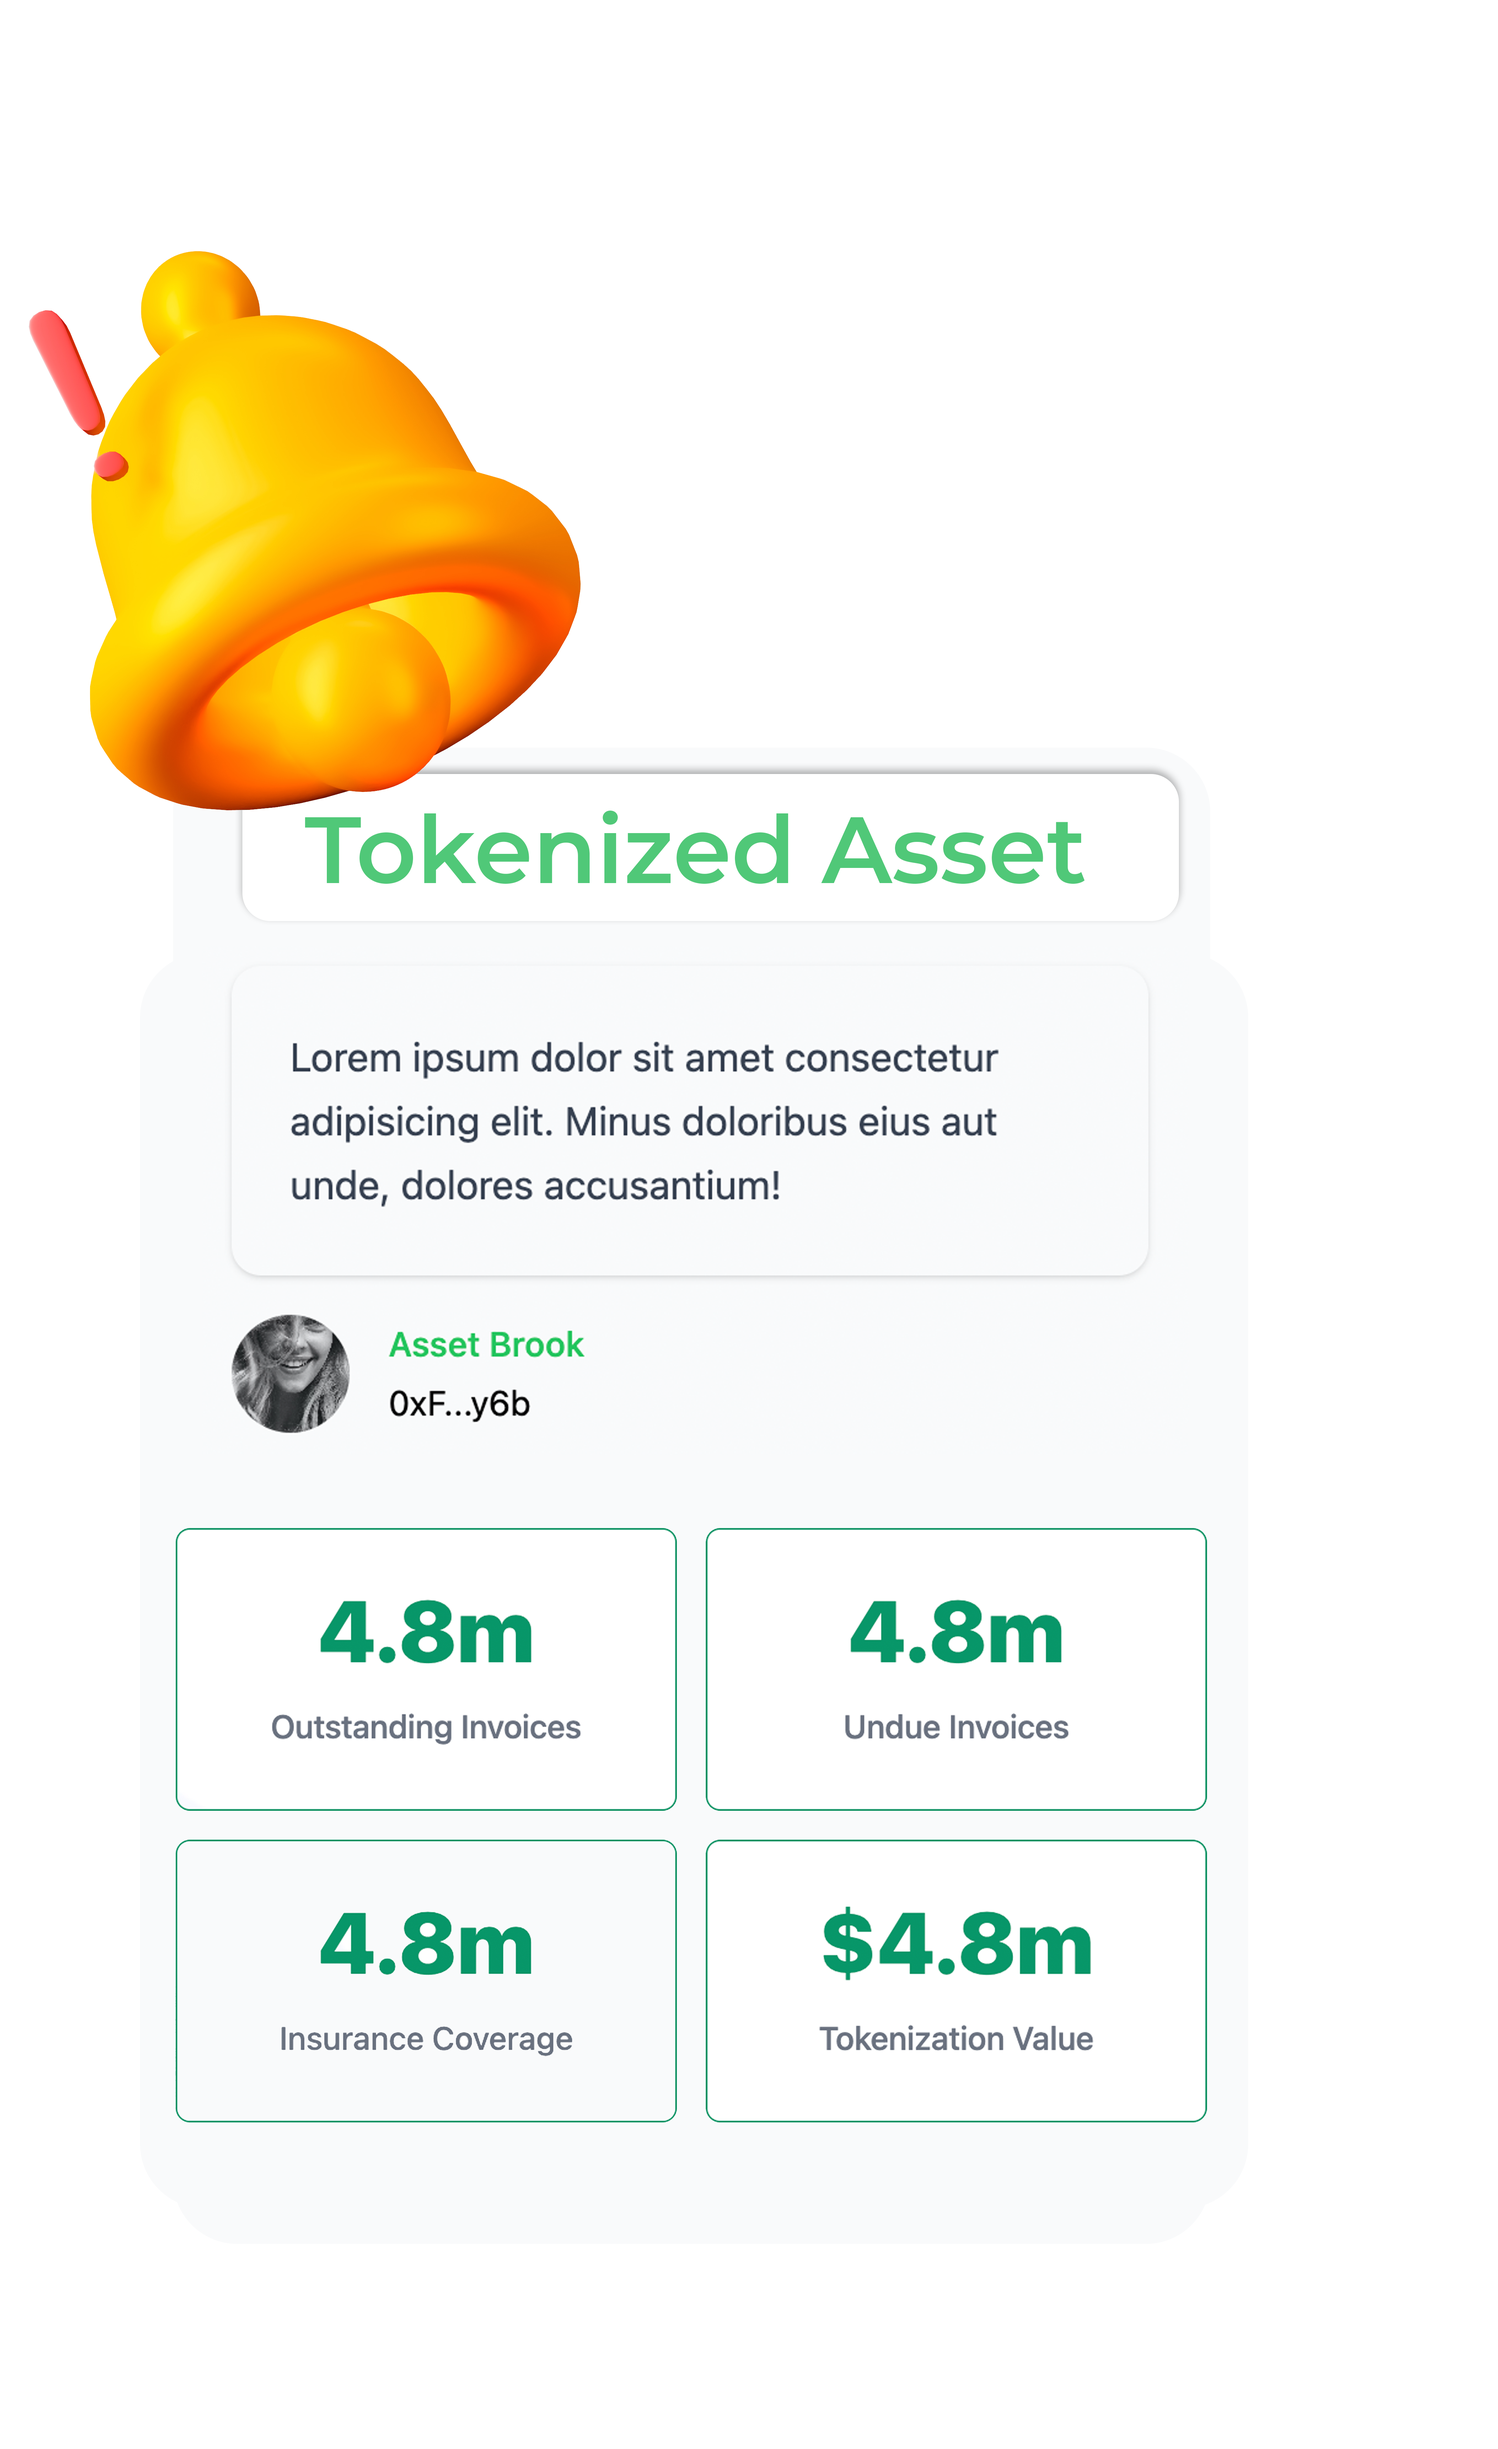
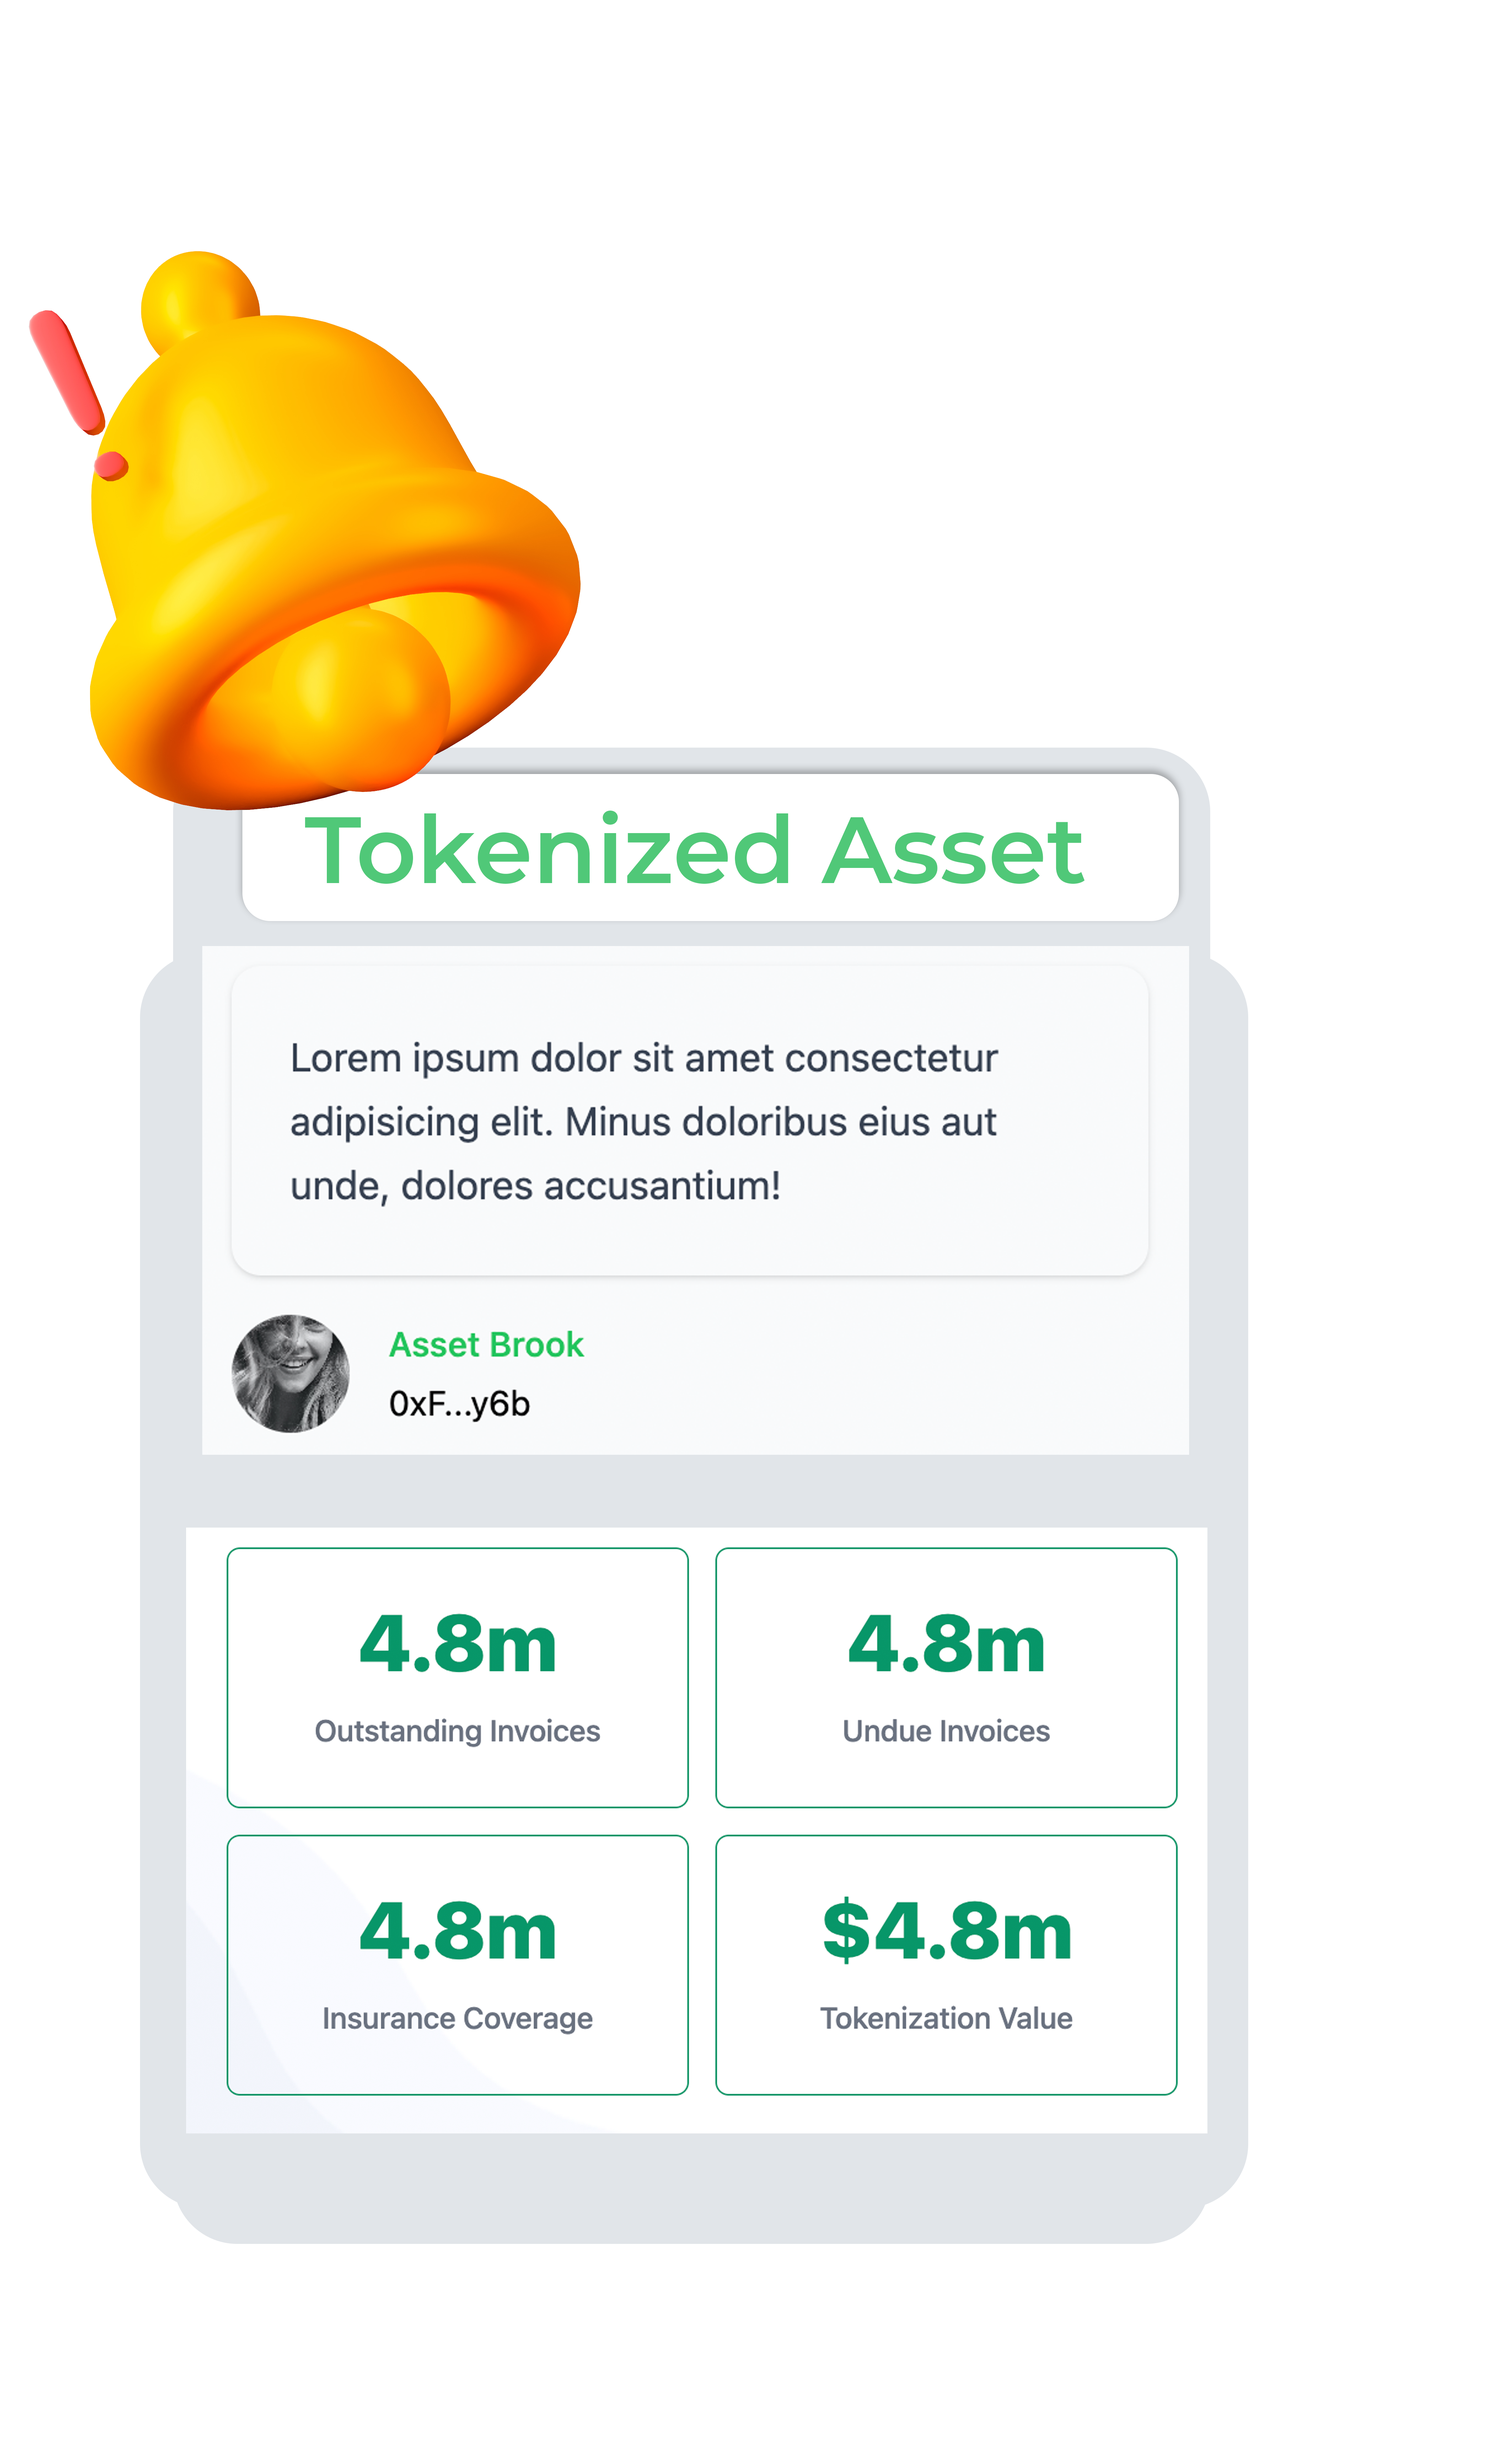
tailwind updates

diff --git a/src/component/Tokenization.js b/src/component/Tokenization.js
@@ -5,6 +5,7 @@ import images2 from '../assets/images2.webp';
 import banner from '../assets/images2.svg';
 
 import assets from '../assets/asssets.png'
+import assets2 from '../assets/asssets2.png'
 
 import '../component/utils/animations.css';
 
@@ -915,32 +916,32 @@ function Tokenization() {
 
 
       <section className="relative bg-gray-50">
-  <div className='flex justify-center lg:pt-16 pt-8'>
-    <h1 className='lg:text-xl text-2xl font-bold text-blue-950'>The platform</h1>
-  </div>
-  <div className='flex justify-center'>
-    <h1 className='lg:text-6xl text-2xl font-bold text-blue-950'>See the full</h1>
-  </div>
-  <div className='flex justify-center'>
-    <h1 className='lg:text-6xl text-2xl font-bold text-emerald-400'>tokenization assets</h1>
-  </div>
+        <div className='flex justify-center lg:pt-16 pt-8'>
+          <h1 className='lg:text-xl text-2xl font-bold text-blue-950'>The platform</h1>
+        </div>
+        <div className='flex justify-center'>
+          <h1 className='lg:text-6xl text-2xl font-bold text-blue-950'>See the full</h1>
+        </div>
+        <div className='flex justify-center'>
+          <h1 className='lg:text-6xl text-2xl font-bold text-emerald-400'>tokenization assets</h1>
+        </div>
 
-  <div className='flex mt-2 justify-center'>
-    <p className="leading-relaxed text-center max-w-3xl px-4 sm:px-12">
-      Lorem, ipsum dolor sit amet consectetur adipisicing elit. Eius ut
-      necessitatibus, repudiandae qui dolor minima.
-      Lorem ipsum dolor sit amet consectetur adipisicing elit. Aut vero 
-      aliquid sint distinctio iure ipsum cupiditate? Quis, odit assumenda? 
-      Deleniti quasi inventore
-    </p>
-  </div>
+        <div className='flex mt-2 justify-center'>
+          <p className="leading-relaxed text-center max-w-3xl px-4 sm:px-12">
+            Lorem, ipsum dolor sit amet consectetur adipisicing elit. Eius ut
+            necessitatibus, repudiandae qui dolor minima.
+            Lorem ipsum dolor sit amet consectetur adipisicing elit. Aut vero 
+            aliquid sint distinctio iure ipsum cupiditate? Quis, odit assumenda? 
+            Deleniti quasi inventore
+          </p>
+        </div>
 
-  <div className="relative flex justify-center">
-    <img className="hidden lg:block w-96 h-88" src={assets} alt="Image 1" />
-    <img className="hidden lg:block w-96 h-88" src={assets} alt="Image 2" />
-    <img className="hidden lg:block w-96 h-88" src={assets} alt="Image 3" />
-  </div>
-</section>
+        <div className="relative flex justify-center">
+          <img className="hidden lg:block w-2/6" src={assets} alt="Image 1" />
+          <img className="hidden lg:block animate-bounce-slow w-96 h-88 -bottom-20 left-0 right-0 relative" src={assets2} alt="Image 2" />
+          <img className="hidden lg:block w-2/6" src={assets} alt="Image 3" />
+        </div>
+      </section>
 
 
 

diff --git a/tailwind.config.js b/tailwind.config.js
@@ -20,6 +20,31 @@ module.exports = {
       '2xl': '1536px',
       // => @media (min-width: 1536px) { ... }
     },
+    extend: {
+      animation: {
+        'bounce-slow': 'bounce-slow 2s infinite',
+        'bounce-fast': 'bounce-fast 1s infinite',
+      },
+      keyframes: {
+        'bounce-slow': {
+          '0%, 100%': {
+            transform: 'translateY(0)',
+          },
+          '50%': {
+            transform: 'translateY(-20px)',
+          },
+        },
+        'bounce-fast': {
+          '0%, 100%': {
+            transform: 'translateY(0)',
+          },
+          '50%': {
+            transform: 'translateY(-40px)',
+          },
+        },
+      },
+    },
   },
-  plugins: [], 
+  variants: {},
+  plugins: [],
 }
